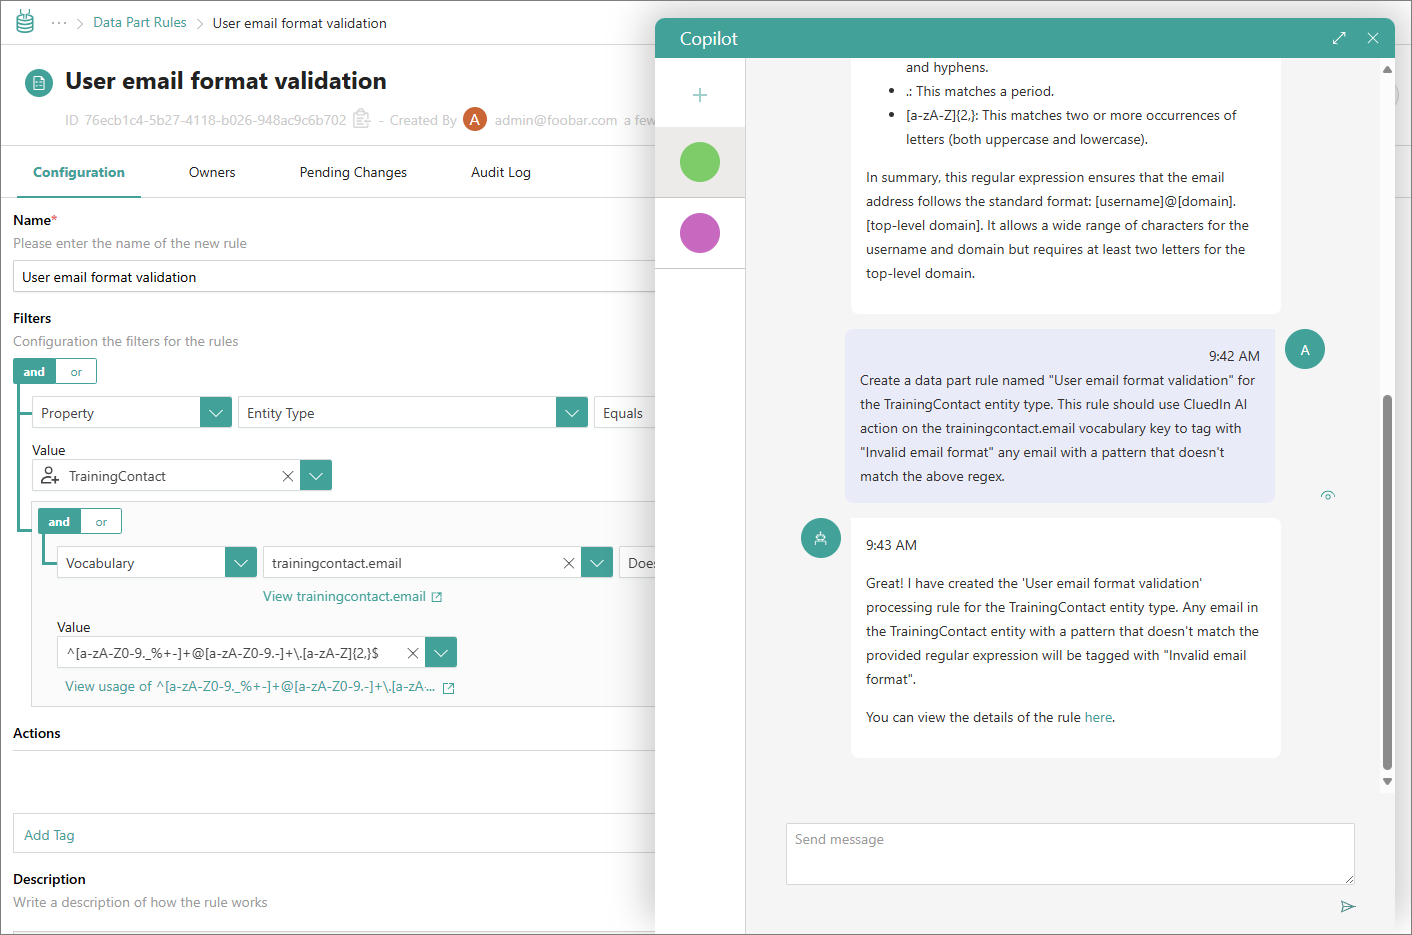
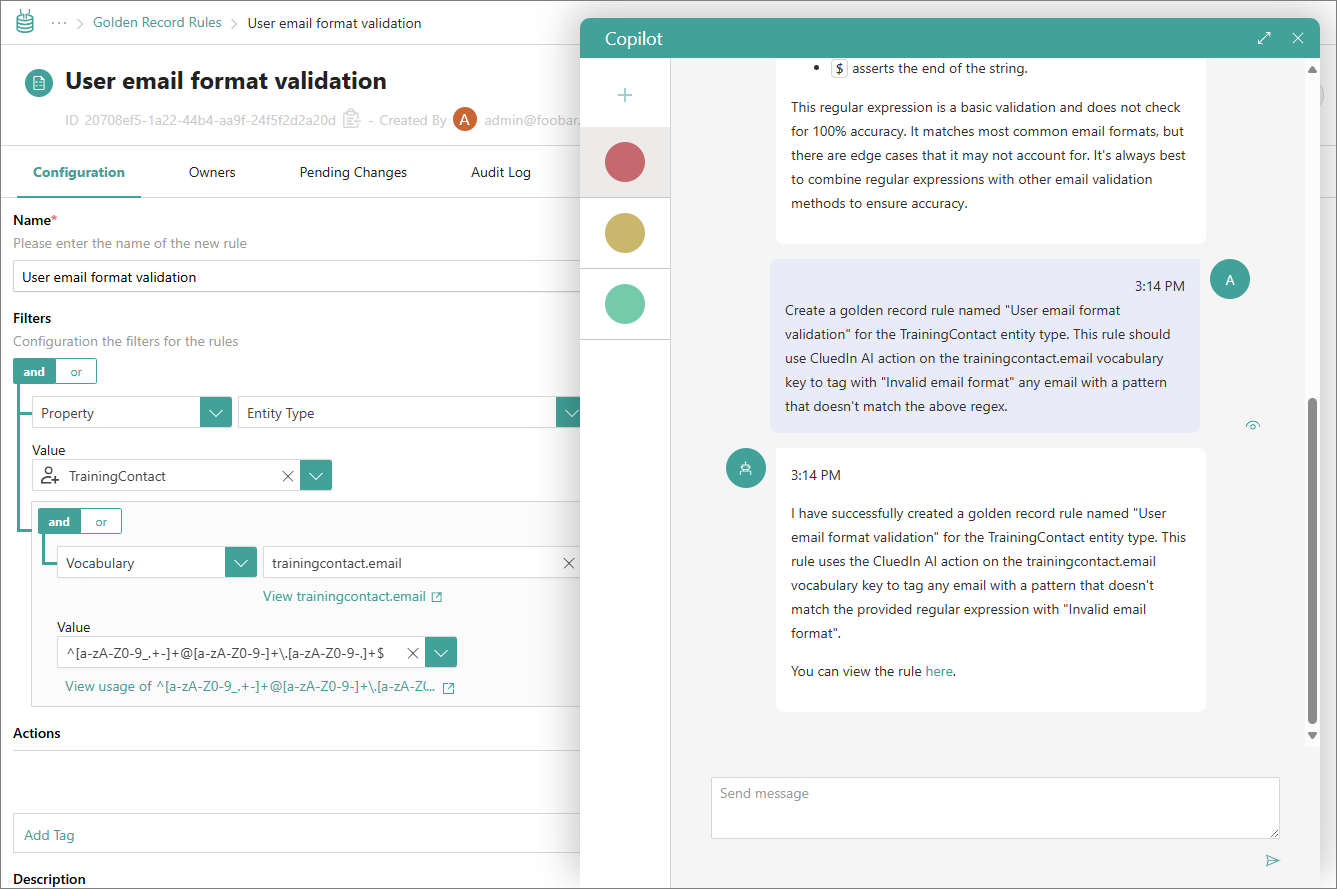
Best practices for rules

diff --git a/docs/080-management/rules/050-best-practices-for-rules.md b/docs/080-management/rules/050-best-practices-for-rules.md
@@ -1,0 +1,53 @@
+---
+layout: cluedin
+nav_order: 5
+parent: Rules
+grand_parent: Management
+permalink: /management/rules/best-practices-for-rules
+title: Best practices for rules
+last_modified: 2025-04-11
+---
+## On this page
+{: .no_toc .text-delta }
+- TOC
+{:toc}
+
+In this article, you will learn about best practices for data part and golden record rules. In particular, we will examine the case of tagging data quality issues and why golden record rules are the preferred way to do this.
+
+Generally, use **data part rules for fixing data** and **golden record rules for tagging data quality issues**. Next, we will provide two examples to illustrate this recommendation.
+
+## Example 1
+
+Suppose you want to tag golden records that contain invalid emails with "Invalid email". Let's start from a golden record that is built from one data part from the CRM source. The data part contains an email property with invalid value (`jsmith&cluedin.com`). At this point, it does not matter if you use a data part rule or a golden record rule to tag records with invalid email because the golden record contains just one data part. If we use a data part rule, the golden record that contains invalid email will be tagged with "Invalid email".
+
+![rule-best-practices-example-1-1.png](../../assets/images/management/rules/rule-best-practices-example-1-1.png)
+
+As long as the golden record contains just one data part, the above setup is correct. However, what if the golden record contains multiple data parts, each with its own email property? Suppose we add another data part from a different source (ERP) to the golden record. This data part also contains the email property, but it has a valid value (`jsmith@cluedin.com`). At this point, we also add a survivorship rule that tells CluedIn to use the property from the ERP source in the golden record. As a result, the golden record contains a valid email from the data part of the ERP source, but it is still tagged with "Invalid email". This is because the data part rule is applied to each data part of the golden record, even if the properties from a specific data part are not used in the golden record due to a survivorship rule.
+
+![rule-best-practices-example-1-2.png](../../assets/images/management/rules/rule-best-practices-example-1-2.png)
+
+To avoid irrelevant tags in golden records, use golden record rules for tagging data quality issues. The golden record rules take into account only the properties of the golden record, not the properties of its specific data parts. As a result, the "Invalid email" tag is not added to the golden record because the email property used in the golden record is valid. 
+
+![rule-best-practices-example-1-3.png](../../assets/images/management/rules/rule-best-practices-example-1-3.png)
+
+## Example 2
+
+For this example, we will start with a data part rule that targets data parts that from a particular source—CRM. The data part contains an email property with invalid value (`jsmith&cluedin.com`). This is the only data part in the golden record, so the golden record is tagged with "Invalid email".
+
+![rule-best-practices-example-2-1.png](../../assets/images/management/rules/rule-best-practices-example-2-1.png)
+
+Now that we've identified an invalid email, we can add a data part rule to replace invalid email with a valid one in data parts from the CRM source. When the email in the data part is replaced with a valid value, the previous data part rule that tagged invalid emails becomes irrelevant and the "Invalid email" tag disappears from the golden record.
+
+![rule-best-practices-example-2-2.png](../../assets/images/management/rules/rule-best-practices-example-2-2.png)
+
+Next, we add another data part from a different source—ERP. This data part contains invalid email (`jsmith&cluedin.com`). In this example, we are not using a custom survivorship rule. Instead, we rely on default survivorship mechanism, which picks the most recent value for the golden record.  Since the ERP data part appeared after the CRM data part, it is used in the golden record. As a result, the golden record contains invalid email address, but it is not tagged with "Invalid email". This is because the data part is applied only to data parts from the CRM source, it is not targeted at data parts from the ERP source.
+
+![rule-best-practices-example-2-3.png](../../assets/images/management/rules/rule-best-practices-example-2-3.png)
+
+To make sure that invalid emails are flagged regardless of the source, use a golden record rule instead of the data part rule. The golden record rule is executed based on the properties of the golden record. As a result, the "Invalid email" tag is added to the golden record because the email property used in the golden record is invalid.
+
+![rule-best-practices-example-2-4.png](../../assets/images/management/rules/rule-best-practices-example-2-4.png)
+
+## Summary
+
+To sum up, if you want to flag data quality issues, use golden record rules. This way, you can be sure that the tag is added based on the end values that are used in your source of truth—a golden record. For more information, see our article [How to tag records with data quality issues](/kb/how-to-tag-records-with-data-quality-issues).

diff --git a/docs/200-kb/how-to/020-tag-records-with-data-quality-issues.md b/docs/200-kb/how-to/020-tag-records-with-data-quality-issues.md
@@ -6,7 +6,7 @@ permalink: /kb/how-to-tag-records-with-data-quality-issues
 nav_order: 2
 ---
 
-In this article, you will learn how to tag records with data quality issues using a data part rule and CluedIn Copilot. However, you can use a golden record rule for this purpose as well. We will use invalid email address as an example of a data quality issue.
+In this article, you will learn how to tag records with data quality issues using golden record rules and CluedIn Copilot. We will use invalid email address as an example of a data quality issue.
 
 To begin with, we have ingested, mapped, and processed a file containing contact data. Some records include invalid email addresses. Note that the email addresses in rows 1–3 violate common email address formatting rules.
 
@@ -25,7 +25,7 @@ Write a common regular expression that would check for valid email format and sh
 Then, instruct Copilot to create a data part rule using the prompt similar to the following.
 
 ```
-Create a data part rule named "User email format validation" for the TrainingContact entity type. This rule should use CluedIn AI action on the trainingcontact.email vocabulary key to tag with "Invalid email format" any email with a pattern that doesn't match the above regex.
+Create a golden record rule named "User email format validation" for the TrainingContact entity type. This rule should use CluedIn AI action on the trainingcontact.email vocabulary key to tag with "Invalid email format" any email with a pattern that doesn't match the above regex.
 ```
 
 ![validate-email-copilot.png](../../assets/images/kb/how-to/validate-email-copilot.png)
